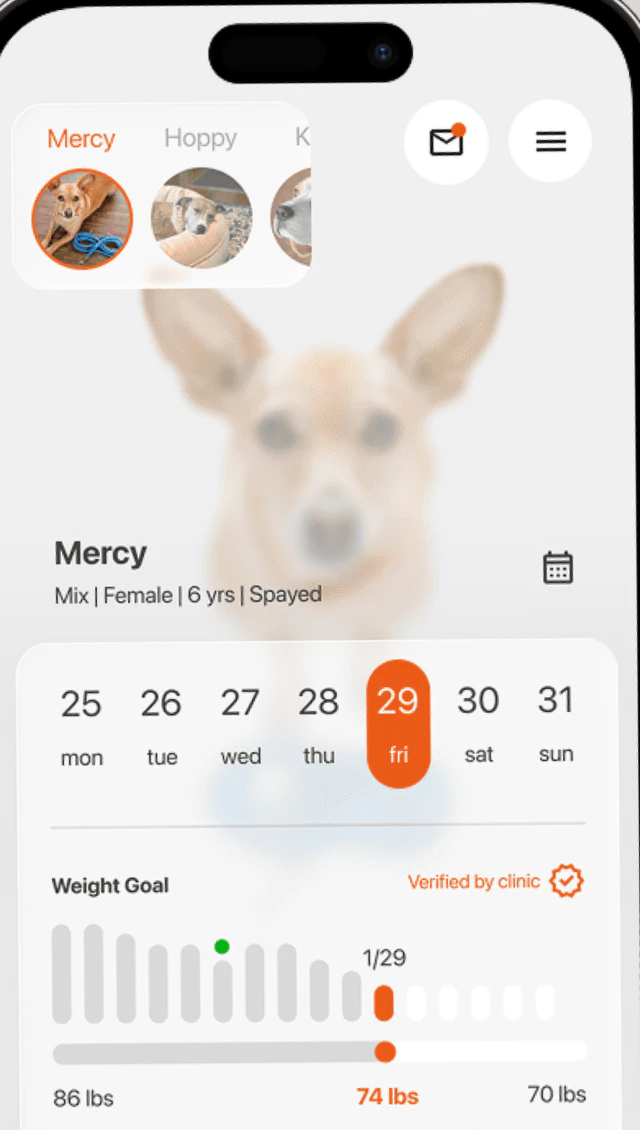
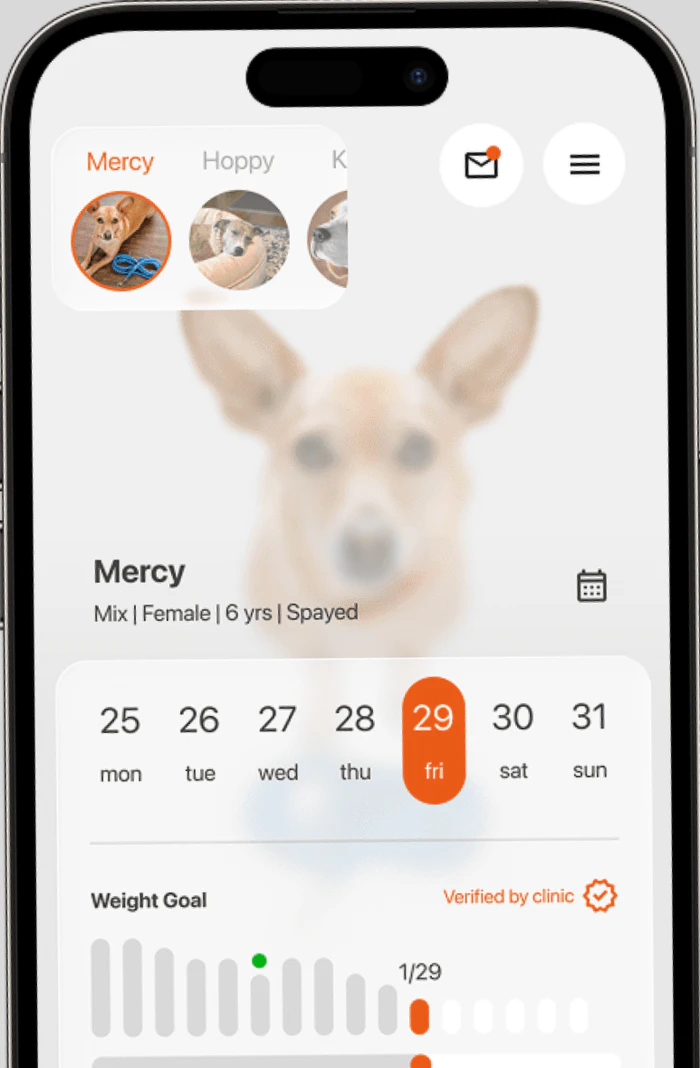
Show feature phones as the original mockups
Use the designer's own phone mockups at their true proportions instead of
cropped screen content stretched into a CSS-drawn frame.

diff --git a/case.css b/case.css
@@ -161,10 +161,9 @@
 .case--light .c-hero__intro small { color: #5f6f00; }
 
 /* the "character": a phone that swaps screens */
-.vn__sprite { position: absolute; right: clamp(24px, 9vw, 160px); bottom: -4vh; width: clamp(200px, 21vw, 320px); aspect-ratio: 266 / 520; border-radius: clamp(30px, 3vw, 46px); background: #0d0d0d; padding: clamp(8px, .8vw, 12px); box-shadow: 0 40px 80px rgba(0,0,0,.55), inset 0 0 0 1.5px rgba(255,255,255,.12); animation: idle 6s ease-in-out infinite; }
-.vn__sprite::before { content: ""; position: absolute; left: 50%; top: clamp(14px, 1.4vw, 20px); width: 30%; height: 4%; translate: -50% 0; border-radius: 99px; background: #0d0d0d; z-index: 2; }
-.vn__screen { position: relative; height: 100%; border-radius: clamp(22px, 2.3vw, 36px); overflow: hidden; background: #eee; }
-.vn__screen img { position: absolute; inset: 0; width: 100%; height: 100%; object-fit: cover; object-position: 50% 0; opacity: 0; transform: translateY(8%) scale(1.04); transition: opacity .7s var(--ease), transform 1s var(--ease); }
+.vn__sprite { position: absolute; right: clamp(24px, 9vw, 160px); bottom: -28px; width: clamp(240px, 24vw, 360px); aspect-ratio: 700 / 1068; filter: drop-shadow(0 40px 60px rgba(0,0,0,.5)); animation: idle 6s ease-in-out infinite; }
+.vn__screen { position: relative; height: 100%; }
+.vn__screen img { position: absolute; inset: 0; width: 100%; height: 100%; border-radius: 15% 15% 0 0 / 9.8% 9.8% 0 0; opacity: 0; transform: translateY(10%); transition: opacity .7s var(--ease), transform 1s var(--ease); }
 .vn__screen img.is-active { opacity: 1; transform: none; }
 @keyframes idle { 0%, 100% { translate: 0 0; rotate: -2deg; } 50% { translate: 0 -14px; rotate: 1deg; } }
 
@@ -287,7 +286,7 @@
   .c-facts { position: static; }
   .mcard { grid-template-columns: 1fr; min-height: 0; }
   .mcard__copy { padding-left: 0; }
-  .vn__sprite { right: 16px; bottom: auto; top: 22vh; width: clamp(150px, 34vw, 240px); }
+  .vn__sprite { right: 12px; width: clamp(170px, 44vw, 260px); bottom: 150px; }
   .vn__box { width: auto; right: var(--gutter); }
   .vn__title { width: 55vw; }
   .vn__dots { right: auto; left: var(--gutter); top: auto; bottom: calc(clamp(24px, 6vh, 64px) + 190px); translate: 0 0; display: flex; }
@@ -295,7 +294,7 @@
 }
 @media (max-width: 640px) {
   .c-hero { height: 140vh; }
-  .vn__box { padding: 26px 20px 28px; min-height: 160px; }
+  .vn__box { padding: 26px 20px 28px; min-height: 160px; background: rgba(12,12,12,.88); }
   .vn__chapter { top: 84px; }
   .vn__title { font-size: 28px; top: 112px; width: 52vw; }
   .c-intro { padding-top: 64px; padding-bottom: 80px; }

diff --git a/projects/fitfido.html b/projects/fitfido.html
@@ -223,10 +223,10 @@
           <h3 class="vn__title"><span data-beat="0">Active weighing</span><span data-beat="1">Weight-driven AI feeding</span><span data-beat="2">Health insights</span><span data-beat="3">Smart calorie detection</span></h3>
           <div class="vn__sprite" aria-hidden="true">
             <div class="vn__screen">
-                <img data-beat="0" src="../assets/projects/fitfido/screen-scale.webp" alt="Smart Scale screen" width="640" height="1130" loading="lazy">
-                <img data-beat="1" src="../assets/projects/fitfido/screen-ai.webp" alt="AI Diet Impact screen" width="640" height="1130" loading="lazy">
-                <img data-beat="2" src="../assets/projects/fitfido/screen-health.webp" alt="Weight Goal screen" width="640" height="1130" loading="lazy">
-                <img data-beat="3" src="../assets/projects/fitfido/screen-scan.webp" alt="Food Scan screen" width="640" height="1130" loading="lazy">
+                <img data-beat="0" src="../assets/projects/fitfido/screen-scale.webp" alt="Smart Scale screen" width="700" height="1068" loading="lazy">
+                <img data-beat="1" src="../assets/projects/fitfido/screen-ai.webp" alt="AI Diet Impact screen" width="700" height="1068" loading="lazy">
+                <img data-beat="2" src="../assets/projects/fitfido/screen-health.webp" alt="Weight Goal screen" width="700" height="1068" loading="lazy">
+                <img data-beat="3" src="../assets/projects/fitfido/screen-scan.webp" alt="Food Scan screen" width="700" height="1068" loading="lazy">
             </div>
           </div>
           <div class="vn__box">
